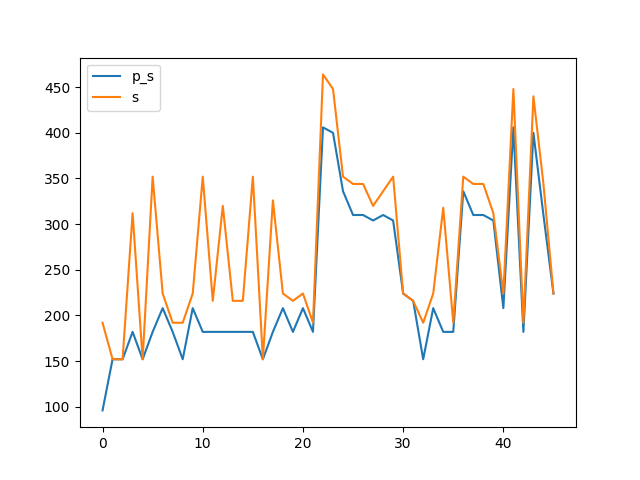
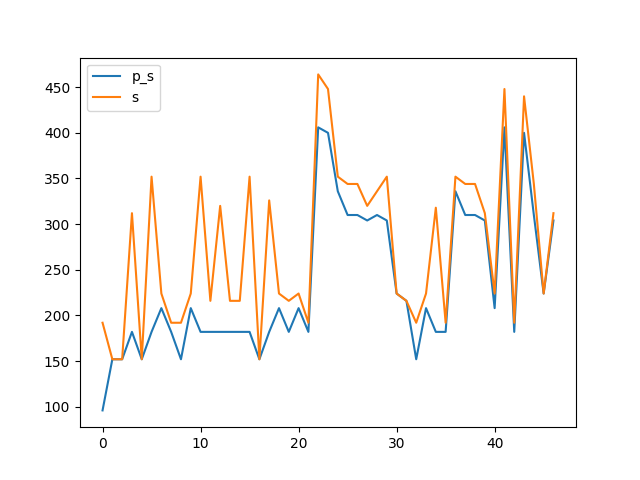
0x002E

diff --git a/benchmark.md b/benchmark.md
@@ -90,16 +90,18 @@ Synthesising 0x002C pexact:310 r=5 exact:344 r=4
 
 Synthesising 0x002D pexact:224 r=3 exact:224 r=3
 
+Synthesising 0x002E pexact:304 r=5 exact:312 r=4
+
 ```mermaid
 xychart-beta
     title "Comparison powertwoexact twoexact"
-    x-axis [0, 1, 2, 3, 4, 5, 6, 7, 8, 9, 10, 11, 12, 13, 14, 15, 16, 17, 18, 19, 20, 21, 22, 23, 24, 25, 26, 27, 28, 29, 30, 31, 32, 33, 34, 35, 36, 37, 38, 39, 40, 41, 42, 43, 44, 45]
+    x-axis [0, 1, 2, 3, 4, 5, 6, 7, 8, 9, 10, 11, 12, 13, 14, 15, 16, 17, 18, 19, 20, 21, 22, 23, 24, 25, 26, 27, 28, 29, 30, 31, 32, 33, 34, 35, 36, 37, 38, 39, 40, 41, 42, 43, 44, 45, 46]
     y-axis "Switching Activity" 0-->464
-    line [96, 152, 152, 182, 152, 182, 208, 182, 152, 208, 182, 182, 182, 182, 182, 182, 152, 182, 208, 182, 208, 182, 406, 400, 336, 310, 310, 304, 310, 304, 224, 216, 152, 208, 182, 182, 336, 310, 310, 304, 208, 406, 182, 400, 310, 224]
-    line [192, 152, 152, 312, 152, 352, 224, 192, 192, 224, 352, 216, 320, 216, 216, 352, 152, 326, 224, 216, 224, 192, 464, 448, 352, 344, 344, 320, 336, 352, 224, 216, 192, 224, 318, 192, 352, 344, 344, 312, 224, 448, 192, 440, 344, 224]
-    line [232.7391304347826, 232.7391304347826, 232.7391304347826, 232.7391304347826, 232.7391304347826, 232.7391304347826, 232.7391304347826, 232.7391304347826, 232.7391304347826, 232.7391304347826, 232.7391304347826, 232.7391304347826, 232.7391304347826, 232.7391304347826, 232.7391304347826, 232.7391304347826, 232.7391304347826, 232.7391304347826, 232.7391304347826, 232.7391304347826, 232.7391304347826, 232.7391304347826, 232.7391304347826, 232.7391304347826, 232.7391304347826, 232.7391304347826, 232.7391304347826, 232.7391304347826, 232.7391304347826, 232.7391304347826, 232.7391304347826, 232.7391304347826, 232.7391304347826, 232.7391304347826, 232.7391304347826, 232.7391304347826, 232.7391304347826, 232.7391304347826, 232.7391304347826, 232.7391304347826, 232.7391304347826, 232.7391304347826, 232.7391304347826, 232.7391304347826, 232.7391304347826, 232.7391304347826]
-    line [276.0869565217391, 276.0869565217391, 276.0869565217391, 276.0869565217391, 276.0869565217391, 276.0869565217391, 276.0869565217391, 276.0869565217391, 276.0869565217391, 276.0869565217391, 276.0869565217391, 276.0869565217391, 276.0869565217391, 276.0869565217391, 276.0869565217391, 276.0869565217391, 276.0869565217391, 276.0869565217391, 276.0869565217391, 276.0869565217391, 276.0869565217391, 276.0869565217391, 276.0869565217391, 276.0869565217391, 276.0869565217391, 276.0869565217391, 276.0869565217391, 276.0869565217391, 276.0869565217391, 276.0869565217391, 276.0869565217391, 276.0869565217391, 276.0869565217391, 276.0869565217391, 276.0869565217391, 276.0869565217391, 276.0869565217391, 276.0869565217391, 276.0869565217391, 276.0869565217391, 276.0869565217391, 276.0869565217391, 276.0869565217391, 276.0869565217391, 276.0869565217391, 276.0869565217391]
-    bar [80, 60, 60, 80, 60, 80, 80, 80, 60, 80, 80, 80, 80, 80, 80, 80, 60, 80, 80, 80, 80, 80, 120, 120, 100, 100, 100, 100, 100, 100, 60, 60, 60, 80, 80, 80, 100, 100, 100, 100, 80, 120, 80, 120, 100, 60]
-    bar [80, 60, 60, 80, 60, 80, 60, 60, 60, 60, 80, 60, 80, 60, 60, 80, 60, 80, 60, 60, 60, 60, 100, 100, 80, 80, 80, 80, 80, 80, 60, 60, 60, 60, 80, 60, 80, 80, 80, 80, 60, 100, 60, 100, 80, 60]
+    line [96, 152, 152, 182, 152, 182, 208, 182, 152, 208, 182, 182, 182, 182, 182, 182, 152, 182, 208, 182, 208, 182, 406, 400, 336, 310, 310, 304, 310, 304, 224, 216, 152, 208, 182, 182, 336, 310, 310, 304, 208, 406, 182, 400, 310, 224, 304]
+    line [192, 152, 152, 312, 152, 352, 224, 192, 192, 224, 352, 216, 320, 216, 216, 352, 152, 326, 224, 216, 224, 192, 464, 448, 352, 344, 344, 320, 336, 352, 224, 216, 192, 224, 318, 192, 352, 344, 344, 312, 224, 448, 192, 440, 344, 224, 312]
+    line [234.25531914893617, 234.25531914893617, 234.25531914893617, 234.25531914893617, 234.25531914893617, 234.25531914893617, 234.25531914893617, 234.25531914893617, 234.25531914893617, 234.25531914893617, 234.25531914893617, 234.25531914893617, 234.25531914893617, 234.25531914893617, 234.25531914893617, 234.25531914893617, 234.25531914893617, 234.25531914893617, 234.25531914893617, 234.25531914893617, 234.25531914893617, 234.25531914893617, 234.25531914893617, 234.25531914893617, 234.25531914893617, 234.25531914893617, 234.25531914893617, 234.25531914893617, 234.25531914893617, 234.25531914893617, 234.25531914893617, 234.25531914893617, 234.25531914893617, 234.25531914893617, 234.25531914893617, 234.25531914893617, 234.25531914893617, 234.25531914893617, 234.25531914893617, 234.25531914893617, 234.25531914893617, 234.25531914893617, 234.25531914893617, 234.25531914893617, 234.25531914893617, 234.25531914893617, 234.25531914893617]
+    line [276.8510638297872, 276.8510638297872, 276.8510638297872, 276.8510638297872, 276.8510638297872, 276.8510638297872, 276.8510638297872, 276.8510638297872, 276.8510638297872, 276.8510638297872, 276.8510638297872, 276.8510638297872, 276.8510638297872, 276.8510638297872, 276.8510638297872, 276.8510638297872, 276.8510638297872, 276.8510638297872, 276.8510638297872, 276.8510638297872, 276.8510638297872, 276.8510638297872, 276.8510638297872, 276.8510638297872, 276.8510638297872, 276.8510638297872, 276.8510638297872, 276.8510638297872, 276.8510638297872, 276.8510638297872, 276.8510638297872, 276.8510638297872, 276.8510638297872, 276.8510638297872, 276.8510638297872, 276.8510638297872, 276.8510638297872, 276.8510638297872, 276.8510638297872, 276.8510638297872, 276.8510638297872, 276.8510638297872, 276.8510638297872, 276.8510638297872, 276.8510638297872, 276.8510638297872, 276.8510638297872]
+    bar [80, 60, 60, 80, 60, 80, 80, 80, 60, 80, 80, 80, 80, 80, 80, 80, 60, 80, 80, 80, 80, 80, 120, 120, 100, 100, 100, 100, 100, 100, 60, 60, 60, 80, 80, 80, 100, 100, 100, 100, 80, 120, 80, 120, 100, 60, 100]
+    bar [80, 60, 60, 80, 60, 80, 60, 60, 60, 60, 80, 60, 80, 60, 60, 80, 60, 80, 60, 60, 60, 60, 100, 100, 80, 80, 80, 80, 80, 80, 60, 60, 60, 60, 80, 60, 80, 80, 80, 80, 60, 100, 60, 100, 80, 60, 80]
 ```
 
